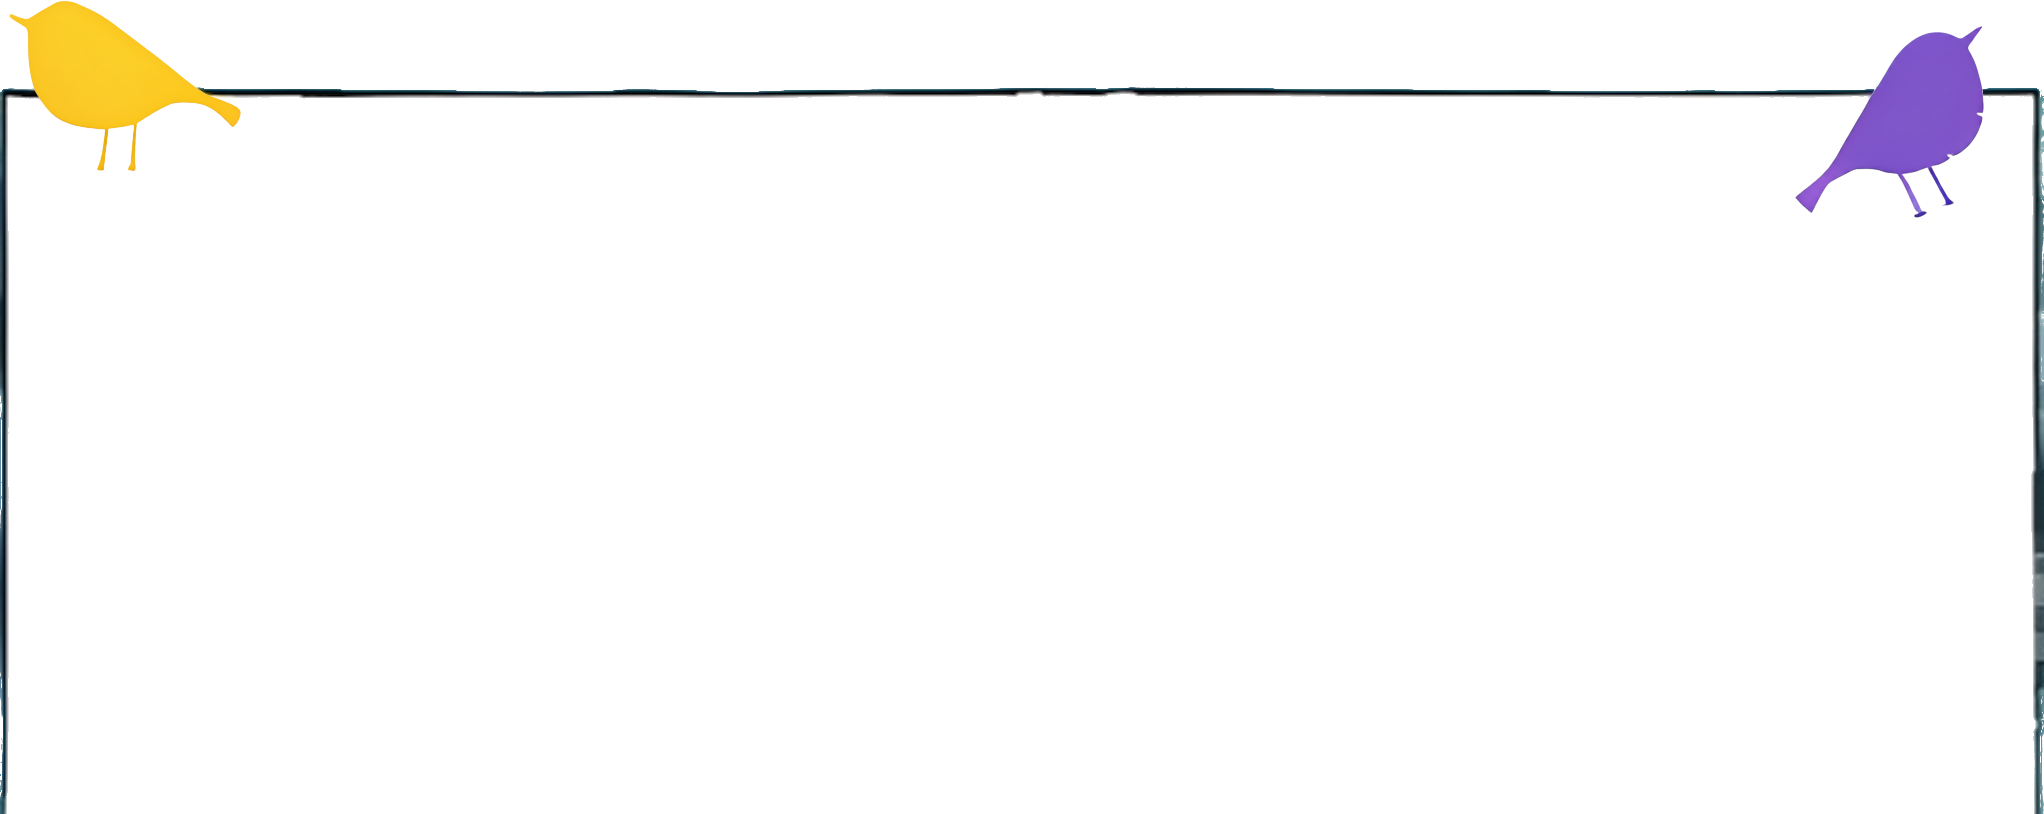
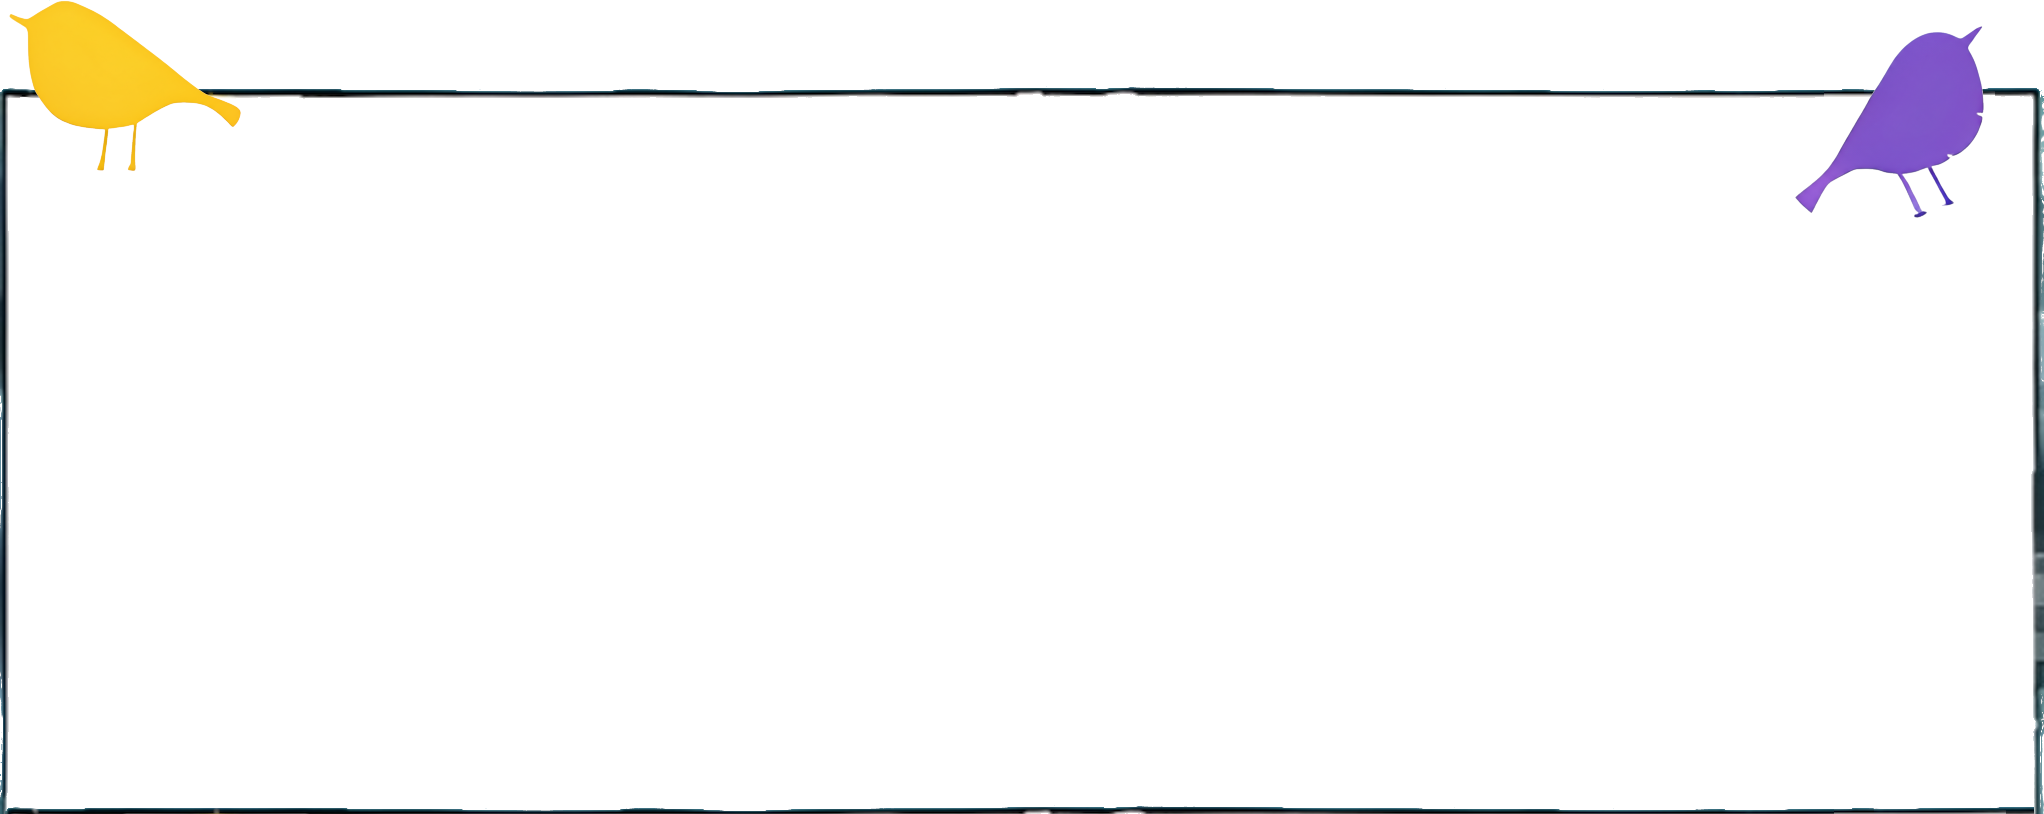
Ajusres

Changed region(s): [[0.0, 0.9828, 1.0, 1.0], [0.8938, 0.0921, 0.9247, 0.1229]]

diff --git a/assets/css/main.css b/assets/css/main.css
@@ -132,7 +132,7 @@ body {
 /* Nível do telhado com degradê de céu */
 .bebelume-nivel:first-child {
     /* background: linear-gradient(to bottom, var(--color-sky) 0%, var(--color-white) 100%); */
-    overflow: hidden;
+    overflow: visible;
 }
 
 .bebelume-nivel.branco .bebelume-andar.andar-casinha-bebelume {
@@ -302,12 +302,63 @@ body {
    TELHADO PASSARINHOS BEBELUME
    ============================================ */
 
+/* ============================================
+   TELHADO PASSARINHOS BEBELUME
+   ============================================ */
+.bebelume-andar.telhado-passarinhos-bebelume .andar-content {
+    background-color: #fff;
+    border: 3px solid #000;
+    margin-top: 2em;
+    min-height: 25em;
+}
+
 .bebelume-andar.telhado-passarinhos-bebelume {
-    background-image: url('../images/andar-passarinhos.png');
+    max-width: var(--max-width-casa);
+    width: 100%;
 }
 
 .bebelume-andar.telhado-passarinhos-bebelume::before {
-    padding-top: 40%;
+    content: none;
+}
+
+.bebelume-andar.telhado-passarinhos-bebelume .andar-content {
+    position: relative;
+    top: auto;
+    left: auto;
+    width: 100%;
+    height: auto;
+    padding: 2em;
+    box-sizing: border-box;
+}
+
+/* Passarinho amarelo (esquerda) */
+.bebelume-andar.telhado-passarinhos-bebelume .andar-content::before {
+    content: '';
+    position: absolute;
+    top: 0;
+    left: clamp(10px, 3%, 40px);
+    width: clamp(50px, 7vw, 100px);
+    height: clamp(50px, 7vw, 100px);
+    background: url('../images/passarinho-amarelo.png') no-repeat bottom center;
+    background-size: contain;
+    transform: translateY(-60%);
+    pointer-events: none;
+    z-index: 10;
+}
+
+/* Passarinho roxo (direita) */
+.bebelume-andar.telhado-passarinhos-bebelume .andar-content::after {
+    content: '';
+    position: absolute;
+    top: 0;
+    right: clamp(10px, 3%, 40px);
+    width: clamp(50px, 7vw, 100px);
+    height: clamp(50px, 7vw, 100px);
+    background: url('../images/passarinho-roxo.png') no-repeat bottom center;
+    background-size: contain;
+    transform: translateY(-60%);
+    pointer-events: none;
+    z-index: 10;
 }
 
 /* ============================================
@@ -1196,7 +1247,7 @@ body {
 
 /* HTML e BODY */
 html {
-    height: 100%;
+    height: auto; /* NÃO trava a altura */
 }
 
 body {
@@ -1205,15 +1256,16 @@ body {
     flex-direction: column;
     margin: 0;
     padding: 0;
-    /* Manter o background azul */
     background-color: var(--color-sky);
+    overflow-x: hidden;
+    /* REMOVE o overflow-y: scroll que foi adicionado */
 }
 
 /* Wrapper principal */
 #page {
     display: flex;
     flex-direction: column;
-    min-height: 100vh;
+    flex: 1;           /* era min-height: 100vh — segundo vilão */
     width: 100%;
 }
 
@@ -1230,9 +1282,10 @@ body {
 /* MAIN - CRESCE PARA EMPURRAR FOOTER */
 #main-content,
 .site-main {
-    flex: 1 0 auto; /* Cresce para empurrar o footer */
+    flex: 1 0 auto;
     margin: 0 !important;
     padding: 0 !important;
+    overflow: clip;
 }
 
 /* PMPro wrapper */
@@ -1243,7 +1296,6 @@ body {
 /* Footer - GRUDA NO FINAL */
 .site-footer {
     flex-shrink: 0;
-    margin-top: 0 !important;
 }
 
 /* Ajuste para admin bar */
